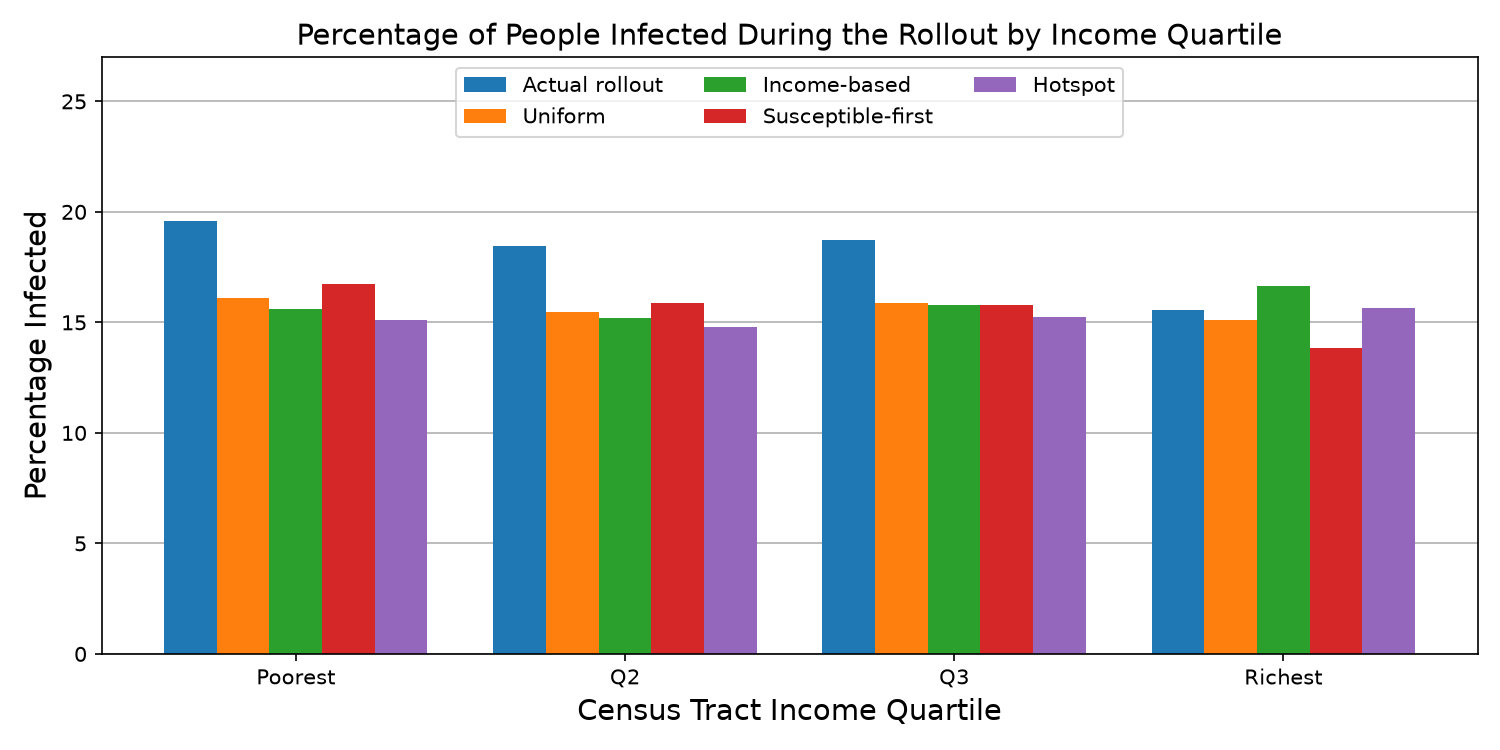
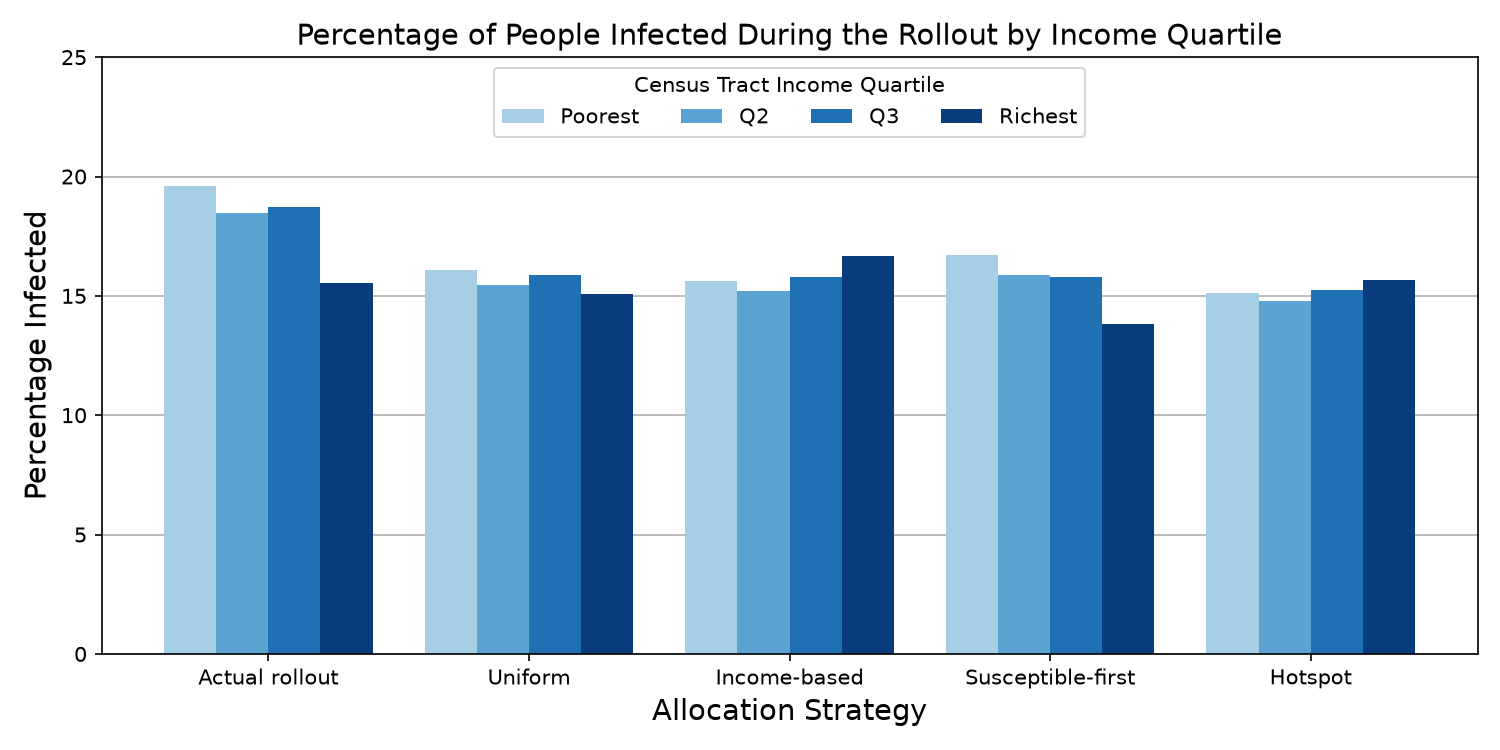
Group the income quartile bar chart by strategy

diff --git a/realistic_model/paper_figs.py b/realistic_model/paper_figs.py
@@ -80,14 +80,15 @@ for key, title, cbar, fname in [('vaxMid', 'Percentage of People with a First Do
 scen = pickle.load(open(f'{SCR}/scenarios2_rho{RHO_LATE}.pkl', 'rb'))
 q = pd.qcut(inc, 4, labels=False); QN = ['Poorest', 'Q2', 'Q3', 'Richest']
 names = [k for k in scen if k != 'No vaccine']
-fig, ax = plt.subplots(figsize=(10, 5)); x = np.arange(4); w = 0.8 / len(names)
-for k, name in enumerate(names):
-  inf = scen[name]['onsets'][VSTART:].sum(0)
-  ax.bar(x + (k - (len(names) - 1) / 2) * w, [100 * inf[q == j].sum() / pop[q == j].sum() for j in range(4)], w, label=name)
-ax.set_xticks(x, QN)
+fig, ax = plt.subplots(figsize=(10, 5)); x = np.arange(len(names)); w = 0.8 / 4
+infQ = np.array([[100 * scen[name]['onsets'][VSTART:].sum(0)[q == j].sum() / pop[q == j].sum() for j in range(4)] for name in names])
+for j in range(4):
+  ax.bar(x + (j - 1.5) * w, infQ[:, j], w, label=QN[j], color=plt.cm.Blues(0.35 + 0.2 * j))
+ax.set_xticks(x, names)
 ax.set_title('Percentage of People Infected During the Rollout by Income Quartile', fontsize=TITLE)
-ax.set_xlabel('Census Tract Income Quartile', fontsize=LABEL); ax.set_ylabel('Percentage Infected', fontsize=LABEL)
-ax.set_ylim(0, 27); ax.grid(True, axis='y'); ax.set_axisbelow(True); ax.legend(ncol=3, loc='upper center')
+ax.set_xlabel('Allocation Strategy', fontsize=LABEL); ax.set_ylabel('Percentage Infected', fontsize=LABEL)
+ax.set_ylim(0, 25); ax.grid(True, axis='y'); ax.set_axisbelow(True)
+ax.legend(title='Census Tract Income Quartile', ncol=4, loc='upper center')
 fig.tight_layout(); fig.savefig(f'{OUT}/strategies_by_quartile.png', dpi=150); plt.close(fig)
 
 fig, ax = plt.subplots(figsize=(10, 5)); d = dates[1:]
